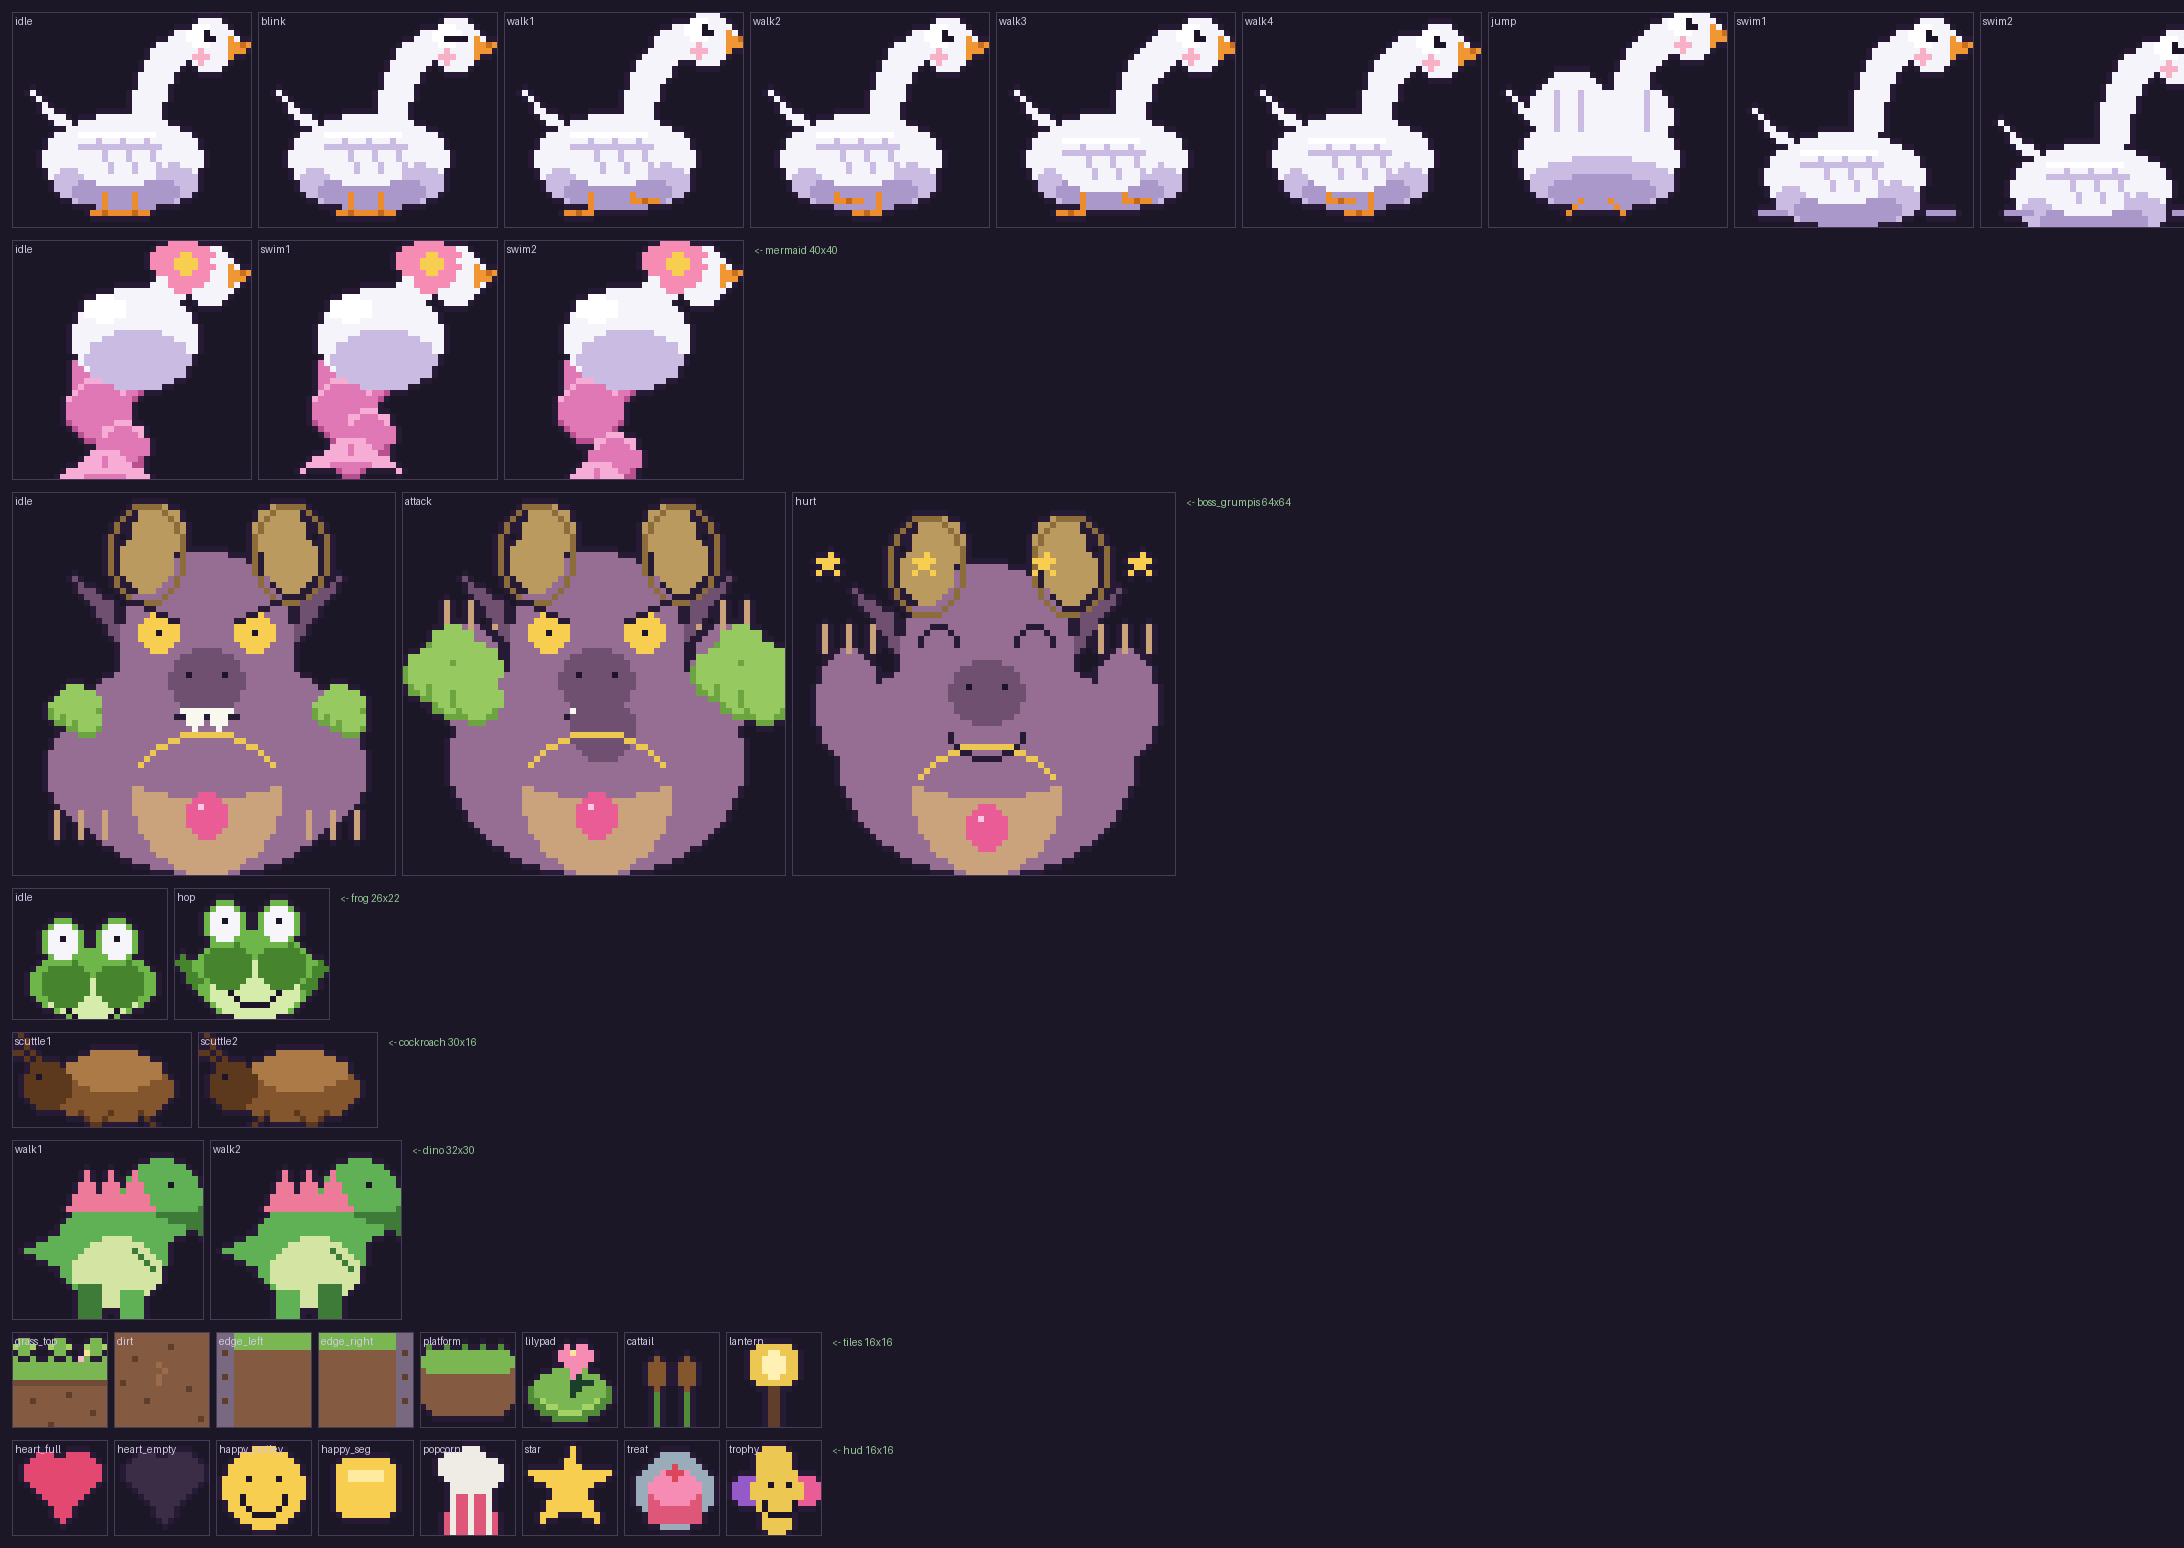
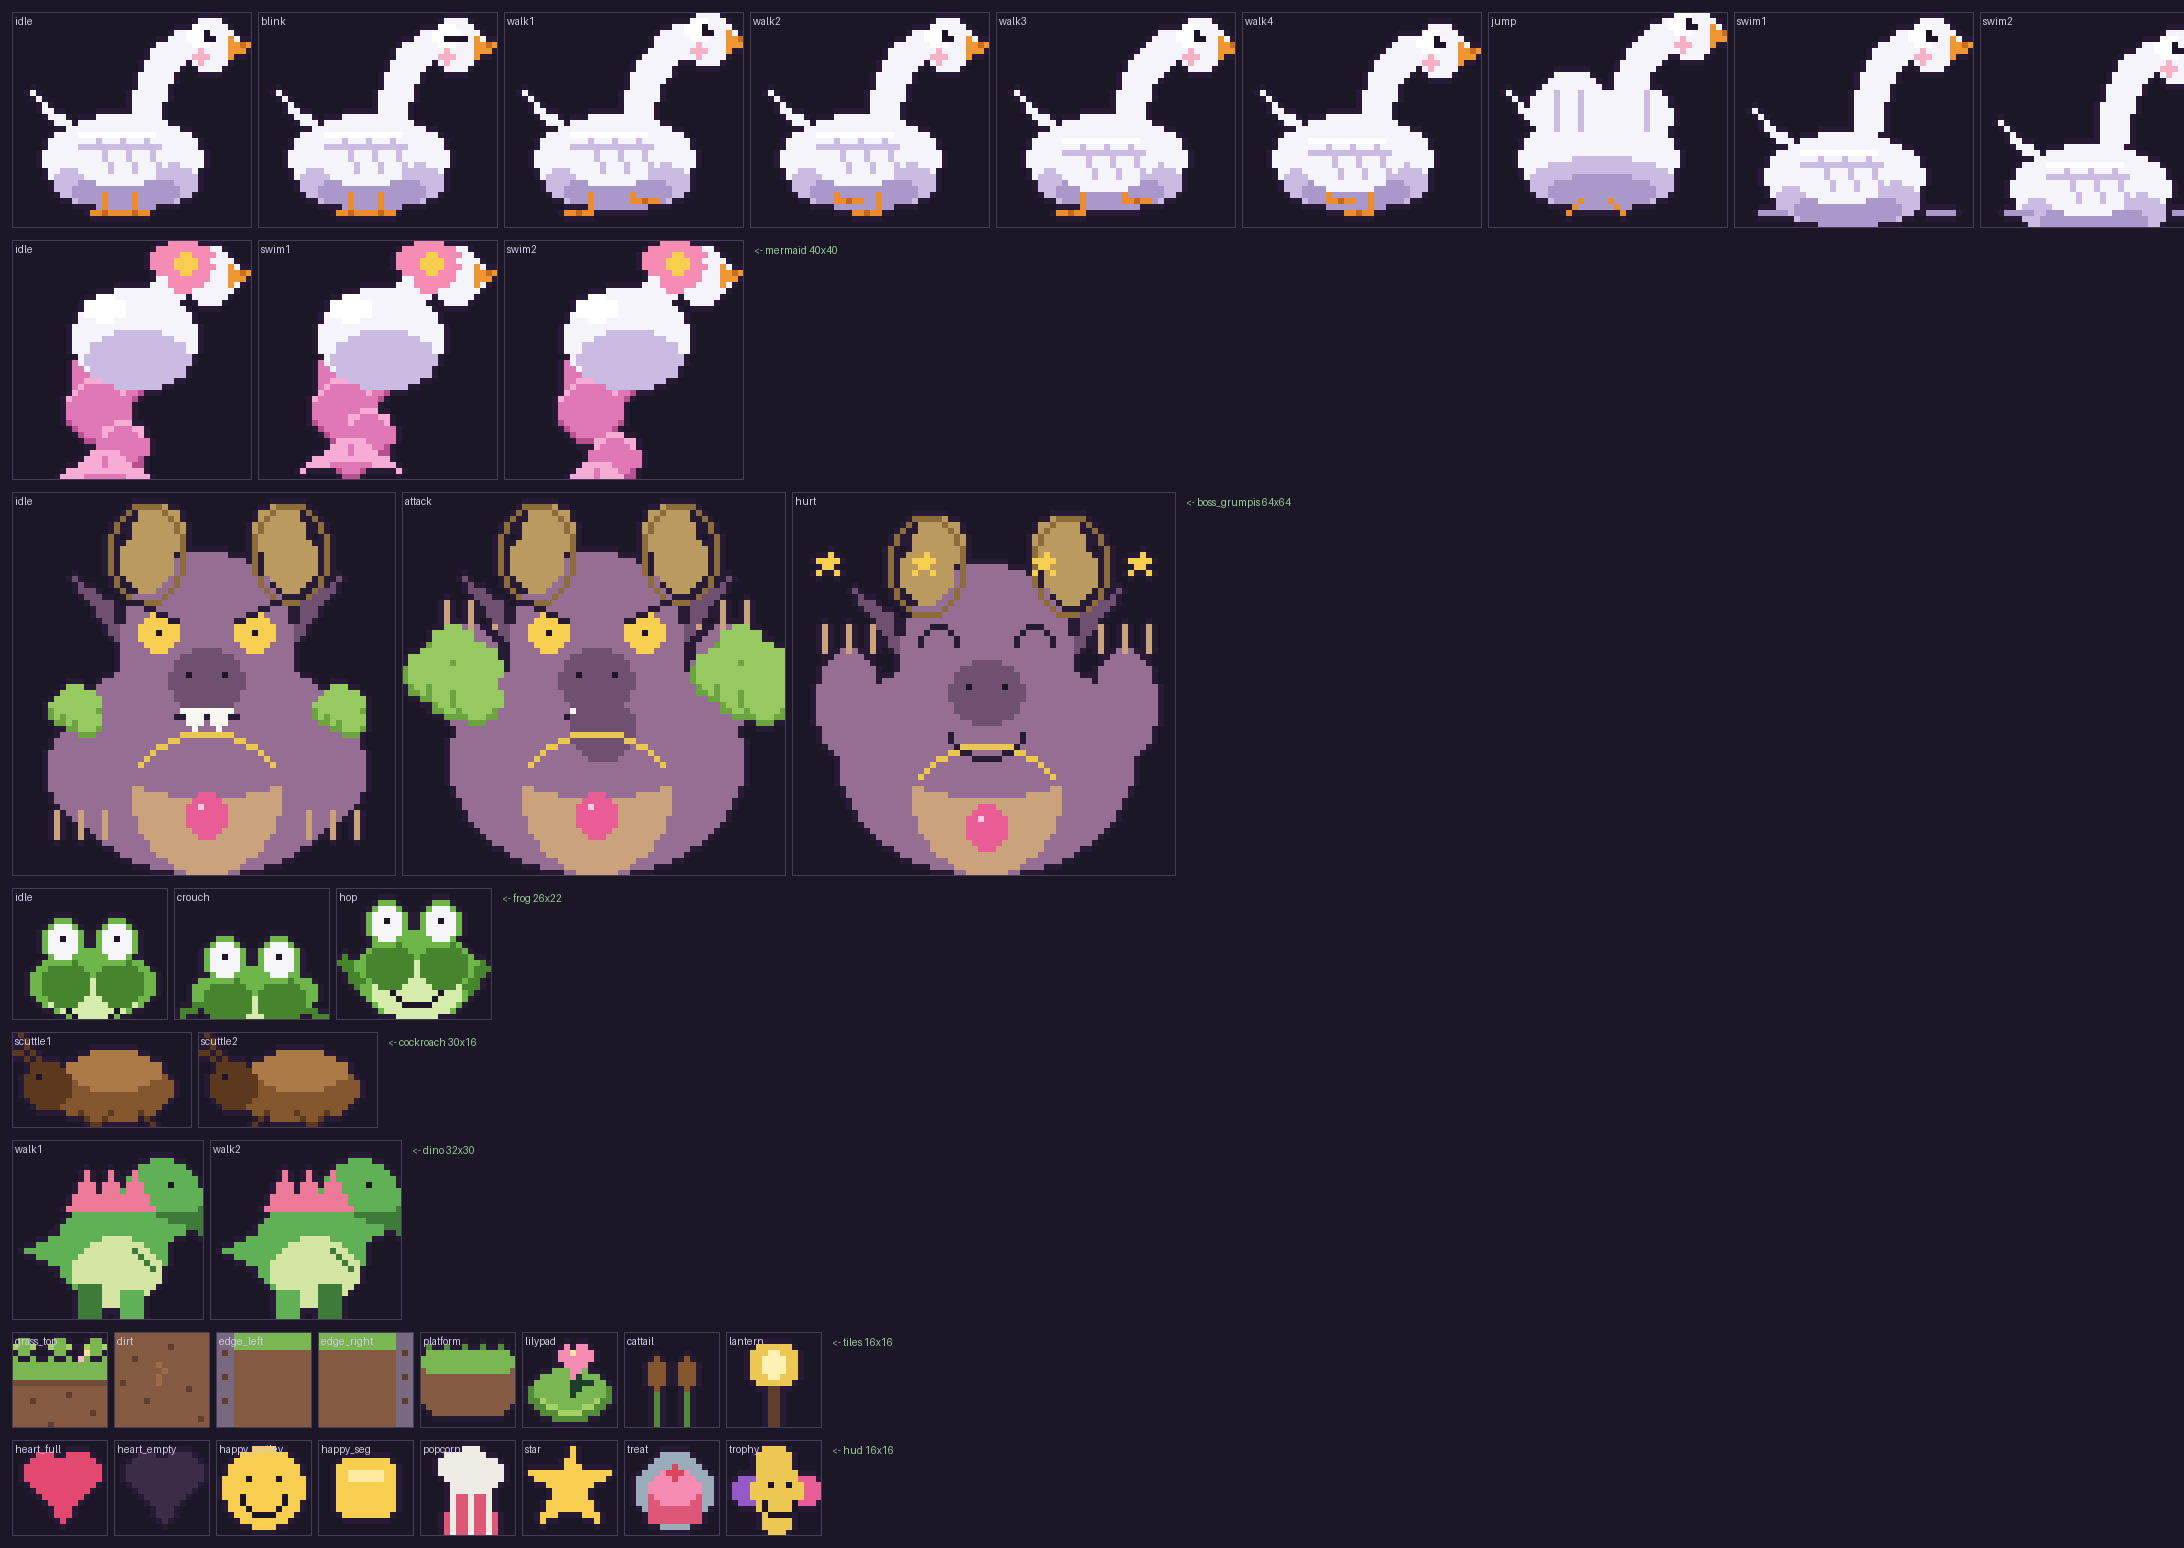
art(v2): animate the frog hop anticipation

Changed region(s): [[0.0623, 0.5581, 0.2179, 0.6822]]

diff --git a/js/enemies.js b/js/enemies.js
@@ -431,7 +431,7 @@ function drawEnemies(camX, camY) {
   }
 }
 function enemyFrame(e) {
-  if (e.type === "frog") return e.state === "air" ? "hop" : "idle";
+  if (e.type === "frog") return e.state === "air" ? "hop" : e.state === "windup" ? "crouch" : "idle";
   if (e.type === "cockroach") return (e.animTimer >> 3) % 2 ? "scuttle2" : "scuttle1";
   if (e.type === "dino") return (e.animTimer >> 4) % 2 ? "walk2" : "walk1";
   if (e.type === "fish") return (e.animTimer >> 3) % 2 ? "swim2" : "swim1";

diff --git a/tools/forge.py b/tools/forge.py
@@ -176,10 +176,14 @@ def frog_frames():
             d.ellipse([ex-3,top-5,ex+3,top+2],fill=FGN); d.ellipse([ex-2,top-4,ex+2,top+1],fill=EYEW); d.point((ex,top-2),fill=EYE)
         d.arc([9,top+6,17,top+12],10,170,fill=EYE)
     def f_idle(): im=cell(W,H);base(ImageDraw.Draw(im));return outline(im,W,H)
+    def f_crouch():
+        im=cell(W,H);d=ImageDraw.Draw(im);base(d,3)
+        d.line([(5,19),(1,21)],fill=FGND,width=2);d.line([(21,19),(25,21)],fill=FGND,width=2)
+        return outline(im,W,H)
     def f_hop():
         im=cell(W,H);d=ImageDraw.Draw(im);base(d,-3)
         d.line([(4,16),(1,12)],fill=FGND,width=2);d.line([(22,16),(25,12)],fill=FGND,width=2);return outline(im,W,H)
-    return (W,H,[f_idle(),f_hop()],["idle","hop"])
+    return (W,H,[f_idle(),f_crouch(),f_hop()],["idle","crouch","hop"])
 def roach_frames():
     W,H=30,16
     def base(d,ph):